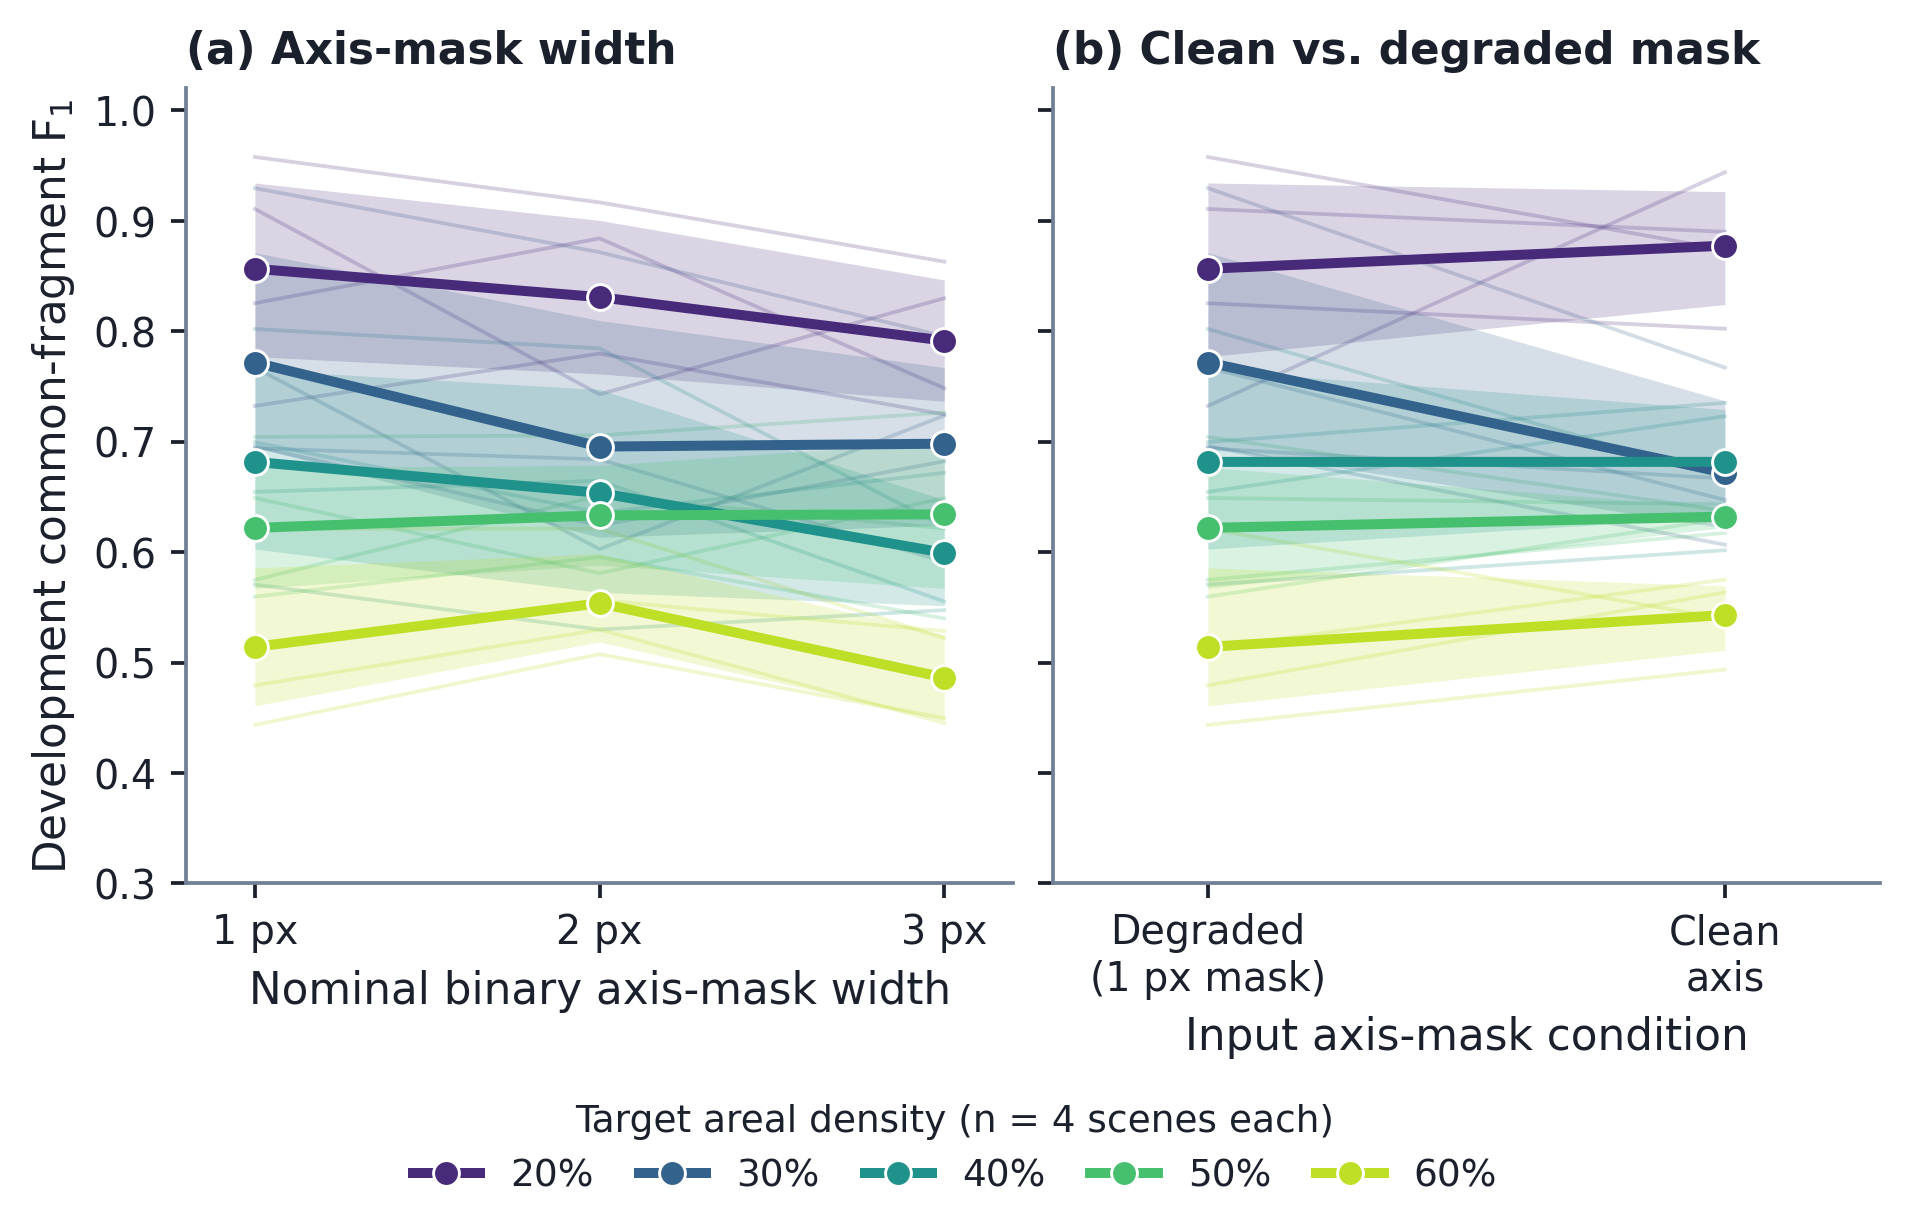
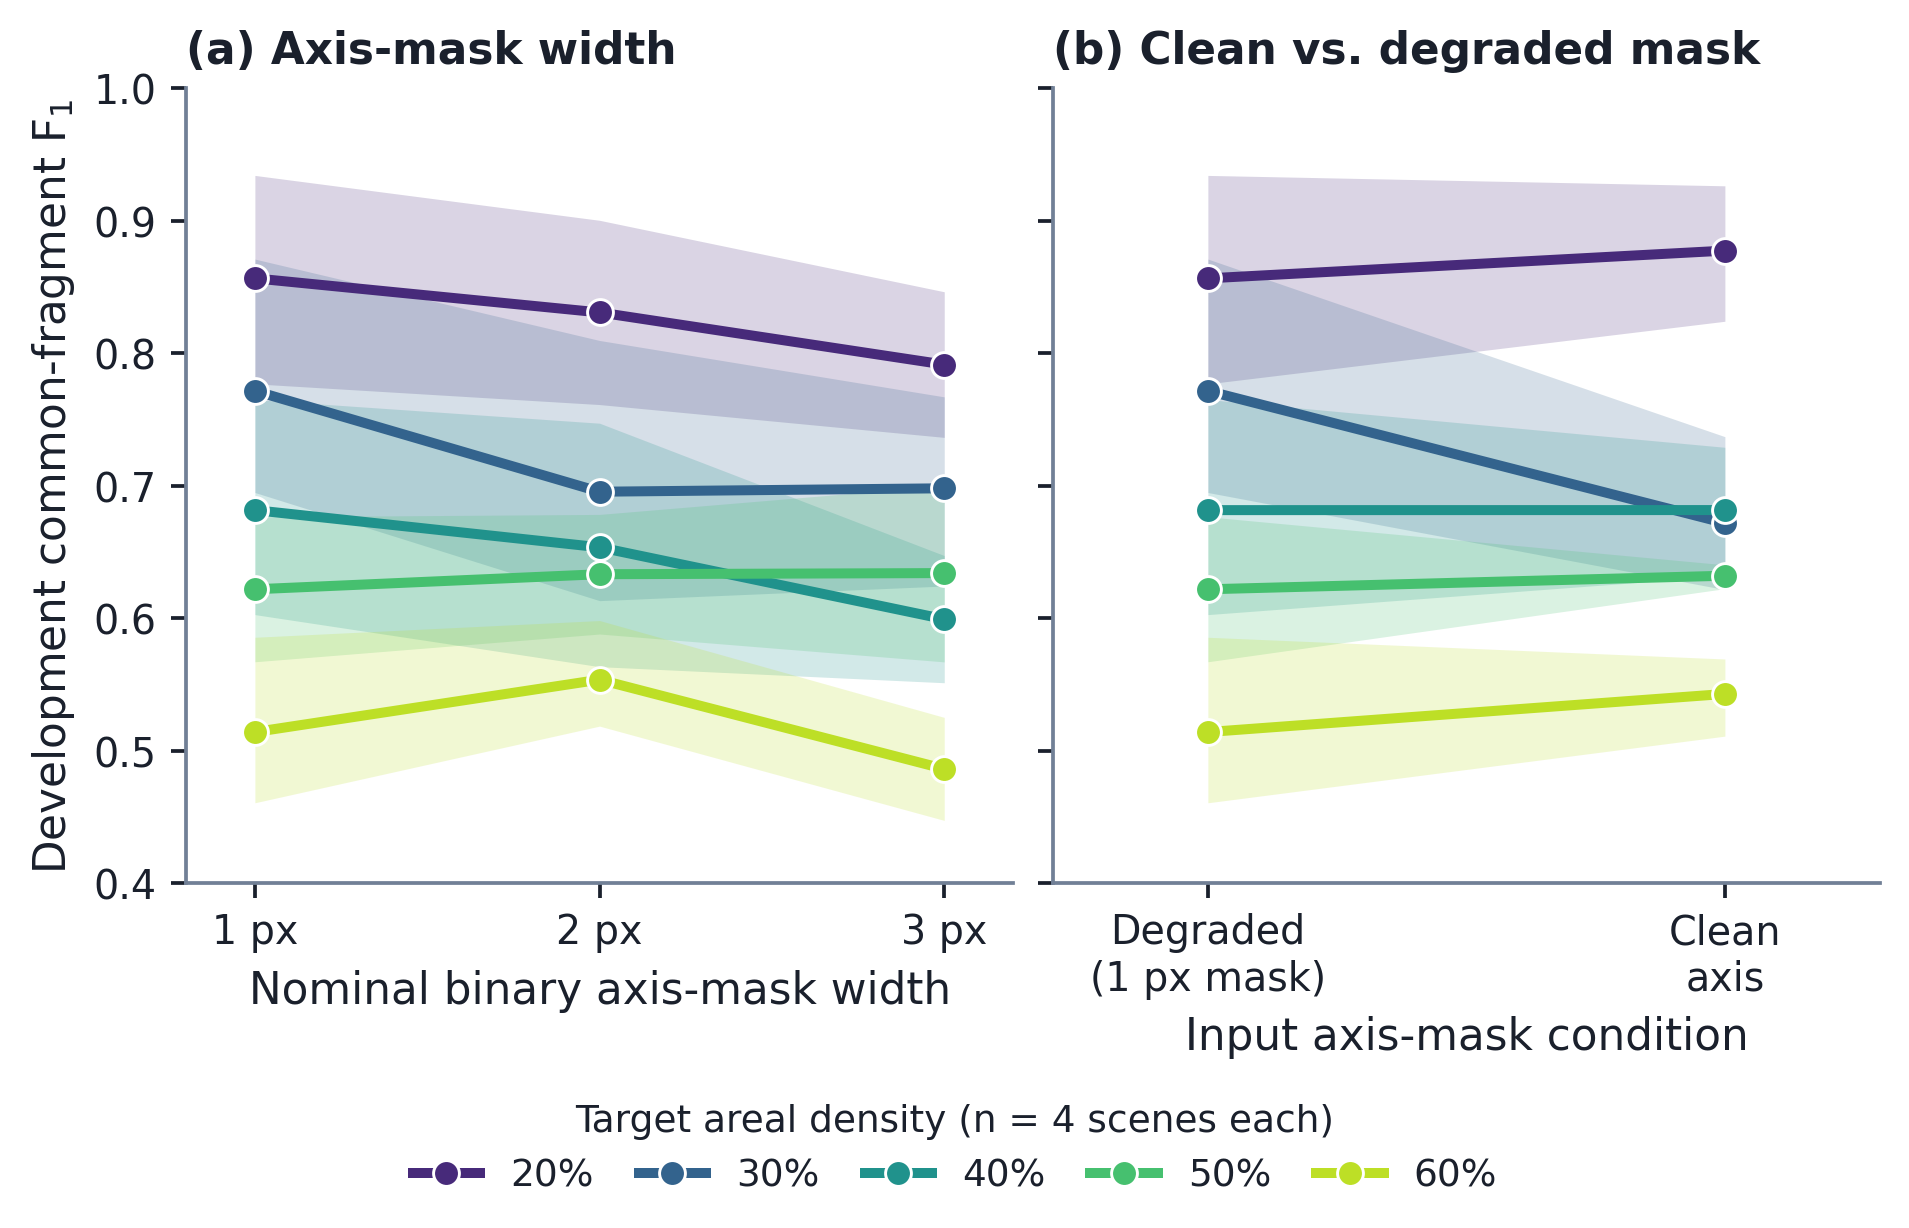
Figure 7: drop the per-scene traces, keep the mean and its CI band
Each panel drew twenty faint individual-scene lines behind the five
density mean curves. At alpha 0.22 across a shared axis they crisscrossed
everything and largely buried the bootstrap CI bands they sat behind,
which are what actually carries the dispersion.

Only the drawing loop is removed. The bootstrap is untouched:
development_sensitivity.json regenerates byte-identical, verified by
hash. This matches fig_density_sweep.py, whose docstring already states
the convention -- per-scene points are not drawn, dispersion is carried
by the confidence interval.

With the traces gone the y-limits no longer had to span the raw
per-scene data, which is what the old (0.30, 1.02) range was chosen for
and what its comment cited. They now sit at (0.40, 1.00), containing the
whole plotted CI envelope (0.448-0.934) with margin at both ends and
matching the 0.45-1.0 of the sibling sweep figure. The stale rationale in
the comment is rewritten. Nothing is clipped.

The viridis ramp is deliberately kept: it encodes five ordered density
levels, which the three-colour semantic palette cannot do without
colliding with the meaning green and orange carry in the other figures.

diff --git a/scripts/figures/fig_development_sensitivity.py b/scripts/figures/fig_development_sensitivity.py
@@ -8,9 +8,10 @@ Two development-only sensitivity studies share one presentation grammar:
 Both are plotted as exactly five mean common-fragment F1 curves -- one per
 prescribed areal-coverage density (20/30/40/50/60%) -- each with a paired
 percentile-bootstrap 95% confidence band computed *within* that density.
-Individual-scene traces are kept in the background at low alpha; there is no
-pooled "all scenes" curve. See ``_density_curve`` for the bootstrap and
-``main``/``--figures`` for how the three output figures are selected.
+Per-scene traces are not drawn -- dispersion is carried by the bootstrap
+confidence band; there is no pooled "all scenes" curve. See ``_density_curve``
+for the bootstrap and ``main``/``--figures`` for how the three output figures
+are selected.
 
 This script deliberately does not import ``eval/stats_util`` (the canonical
 monorepo's shared stats module): this repository is a standalone mirror of
@@ -123,9 +124,12 @@ DENSITIES = (20, 30, 40, 50, 60)
 CURVE_BOOTSTRAP_SEED = 20260729
 CURVE_N_BOOTSTRAP = 10000
 
-# Shared y-limits across every panel of every figure this script emits
-# (development F1 spans ~0.44-0.96 across the raw per-scene data).
-Y_LIM = (0.30, 1.02)
+# Shared y-limits across every panel of every figure this script emits.
+# Per-scene traces are not drawn, so the range no longer has to span the raw
+# per-scene data: it is set to contain the whole plotted CI envelope
+# (0.448-0.934 across both panels) with margin at each end, and to match the
+# sibling line-plot figure fig_density_sweep.py (which uses 0.45-1.0).
+Y_LIM = (0.40, 1.00)
 
 
 def _density_colors() -> dict[int, tuple]:
@@ -169,8 +173,9 @@ def _density_curve(values_by_name: dict[str, dict], names: tuple[str, ...],
 
 def _plot_panel(ax, values, names, x, expected, density_colors, xticklabels,
                  xlabel: str):
-    """Draw one panel: light per-scene background traces plus five heavy
-    density mean curves with shaded 95% paired-bootstrap CI bands.
+    """Draw one panel: five density mean curves with shaded 95%
+    paired-bootstrap CI bands. Per-scene traces are not drawn -- dispersion is
+    carried by the CI band.
 
     Returns (handles, labels, n_by_density) for building a shared legend.
     """
@@ -178,9 +183,6 @@ def _plot_panel(ax, values, names, x, expected, density_colors, xticklabels,
     for density in DENSITIES:
         scene_ids = _scene_ids_for_density(expected, density)
         color = density_colors[density]
-        for sid in scene_ids:
-            ax.plot(x, [values[name][sid] for name in names], "-",
-                     color=color, alpha=0.22, lw=0.9, zorder=1)
         mean, lo, hi = _density_curve(values, names, scene_ids, density)
         ax.fill_between(x, lo, hi, color=color, alpha=0.20, zorder=2, lw=0)
         (line,) = ax.plot(x, mean, "-o", color=color, lw=2.4, ms=6.2,
